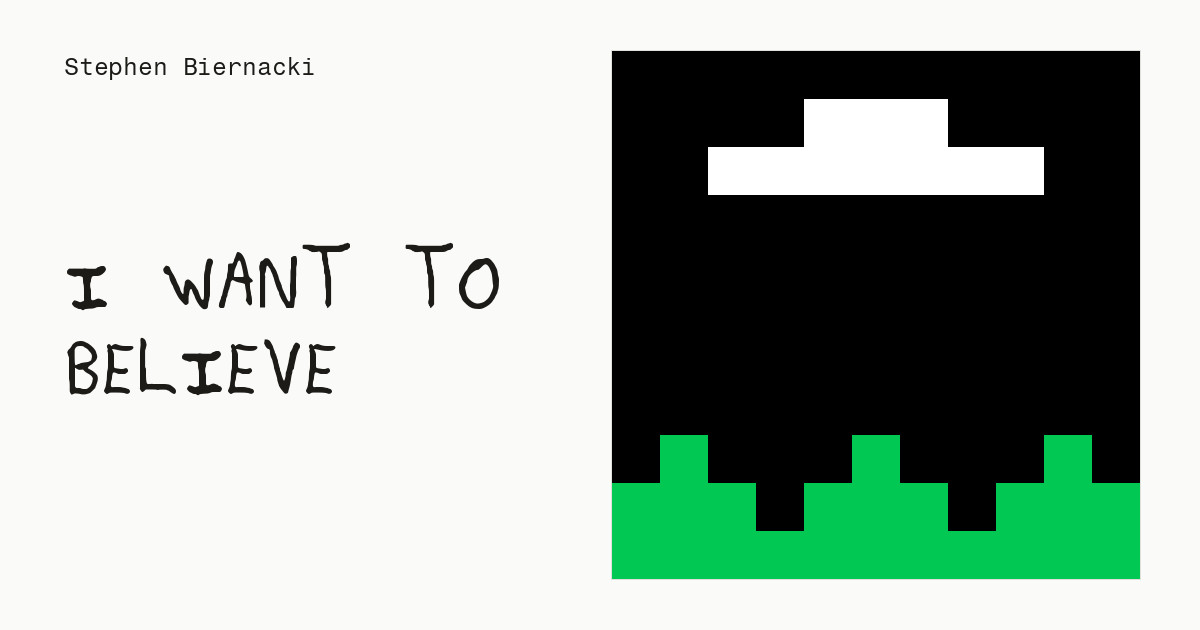
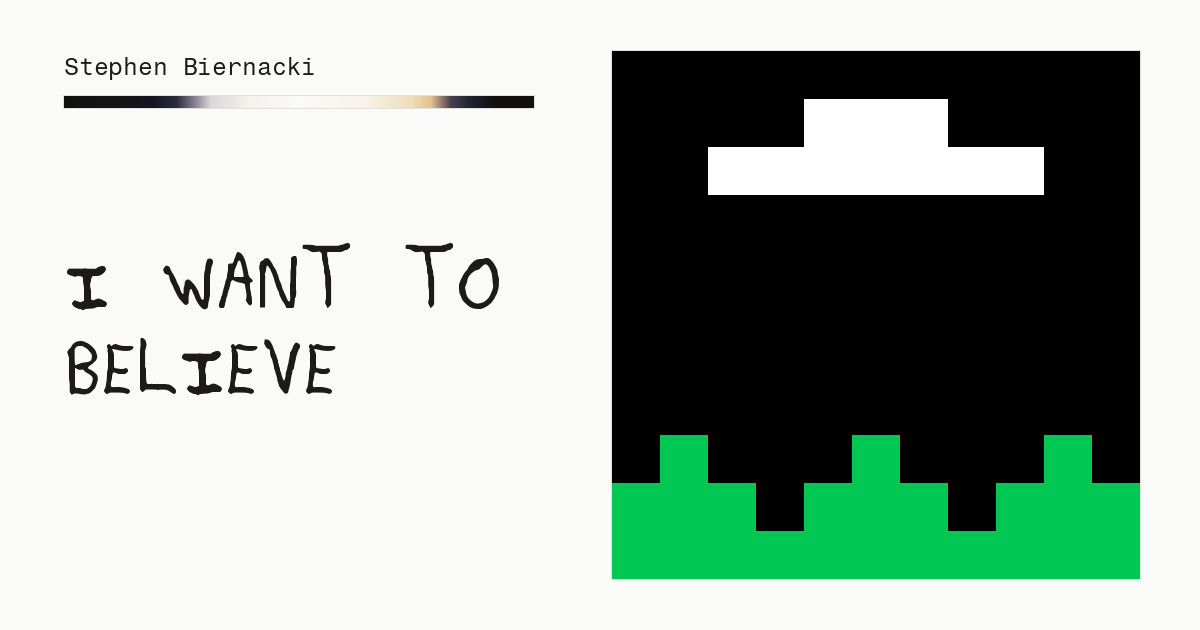
Every work page shares its own card, with the day's bar under the name
All eighteen work cards now carry the footer's bar of the day's light under the name, drawn from
the colors in assets/light.js. Nothing else on the thirteen existing cards changed.

The five live works that used the site's card get cards of their own: Alien Invasion of Privacy,
Vestige, Self-Addressed (0x01) and Untitled (For Jo) show the picture the front page hangs for
them, and UNBECOMING shows the truth is rarely pure and never simple, the work its page opens on.
Each has a description of its picture.

Work pages ask for their cards as <page>.jpg?v=2, so services that kept the old cards fetch these.

Claude-Session: https://claude.ai/code/session_014FDTHNW6CwwbjPTPEX69sd

Changed region(s): [[0.0308, 0.1508, 0.4625, 0.181]]

diff --git a/works/alien-invasion-of-privacy/index.html b/works/alien-invasion-of-privacy/index.html
@@ -11,10 +11,10 @@
 <meta property="og:site_name" content="Stephen Biernacki">
 <meta property="og:title" content="Alien Invasion of Privacy by Stephen Biernacki">
 <meta property="og:description" content="In the movies, the aliens are the ones watching. Here, the alien is the one being watched.">
-<meta property="og:image" content="https://stephenbiernacki.com/assets/og.png?v=2">
+<meta property="og:image" content="https://stephenbiernacki.com/assets/share/alien-invasion-of-privacy.jpg?v=2">
 <meta property="og:image:width" content="1200">
 <meta property="og:image:height" content="630">
-<meta property="og:image:alt" content="Stephen Biernacki, handwritten across the colors this site takes through one day: dark at midnight, white at noon, warm at dusk.">
+<meta property="og:image:alt" content="Alien Invasion of Privacy. A grid of six gray security-camera views of rooms, on black.">
 <meta name="twitter:card" content="summary_large_image">
 <link rel="icon" href="../../favicon.svg" type="image/svg+xml">
 <link rel="icon" href="../../favicon-32.png" sizes="32x32" type="image/png">

diff --git a/works/unbecoming/index.html b/works/unbecoming/index.html
@@ -11,10 +11,10 @@
 <meta property="og:site_name" content="Stephen Biernacki">
 <meta property="og:title" content="UNBECOMING by Stephen Biernacki">
 <meta property="og:description" content="A reflection on the quiet unraveling of self within relationships.">
-<meta property="og:image" content="https://stephenbiernacki.com/assets/og.png?v=2">
+<meta property="og:image" content="https://stephenbiernacki.com/assets/share/unbecoming.jpg?v=2">
 <meta property="og:image:width" content="1200">
 <meta property="og:image:height" content="630">
-<meta property="og:image:alt" content="Stephen Biernacki, handwritten across the colors this site takes through one day: dark at midnight, white at noon, warm at dusk.">
+<meta property="og:image:alt" content="the truth is rarely pure and never simple. A blurred face in profile with two dark, glassy orbs, against a pale oval, in black and white.">
 <meta name="twitter:card" content="summary_large_image">
 <link rel="icon" href="../../favicon.svg" type="image/svg+xml">
 <link rel="icon" href="../../favicon-32.png" sizes="32x32" type="image/png">

diff --git a/works/untitled-for-jo/index.html b/works/untitled-for-jo/index.html
@@ -11,10 +11,10 @@
 <meta property="og:site_name" content="Stephen Biernacki">
 <meta property="og:title" content="Untitled (For Jo) by Stephen Biernacki">
 <meta property="og:description" content="An ever-changing, screen-adaptive digital evolution of Jo Baer’s Single Paintings series.">
-<meta property="og:image" content="https://stephenbiernacki.com/assets/og.png?v=2">
+<meta property="og:image" content="https://stephenbiernacki.com/assets/share/untitled-for-jo.jpg?v=2">
 <meta property="og:image:width" content="1200">
 <meta property="og:image:height" content="630">
-<meta property="og:image:alt" content="Stephen Biernacki, handwritten across the colors this site takes through one day: dark at midnight, white at noon, warm at dusk.">
+<meta property="og:image:alt" content="Untitled (For Jo). A pale gray field inside a thin pink line and a wide, nearly black border.">
 <meta name="twitter:card" content="summary_large_image">
 <link rel="icon" href="../../favicon.svg" type="image/svg+xml">
 <link rel="icon" href="../../favicon-32.png" sizes="32x32" type="image/png">

diff --git a/works/self-addressed/index.html b/works/self-addressed/index.html
@@ -11,10 +11,10 @@
 <meta property="og:site_name" content="Stephen Biernacki">
 <meta property="og:title" content="Self-Addressed by Stephen Biernacki">
 <meta property="og:description" content="For you, with a bit of me.">
-<meta property="og:image" content="https://stephenbiernacki.com/assets/og.png?v=2">
+<meta property="og:image" content="https://stephenbiernacki.com/assets/share/self-addressed.jpg?v=2">
 <meta property="og:image:width" content="1200">
 <meta property="og:image:height" content="630">
-<meta property="og:image:alt" content="Stephen Biernacki, handwritten across the colors this site takes through one day: dark at midnight, white at noon, warm at dusk.">
+<meta property="og:image:alt" content="0x01. A nearly black field split by a pale violet band, between white edges that turn wavy below it.">
 <meta name="twitter:card" content="summary_large_image">
 <link rel="icon" href="../../favicon.svg" type="image/svg+xml">
 <link rel="icon" href="../../favicon-32.png" sizes="32x32" type="image/png">

diff --git a/works/vestige/index.html b/works/vestige/index.html
@@ -11,10 +11,10 @@
 <meta property="og:site_name" content="Stephen Biernacki">
 <meta property="og:title" content="Vestige by Stephen Biernacki">
 <meta property="og:description" content="He’s with me, but it’s different now.">
-<meta property="og:image" content="https://stephenbiernacki.com/assets/og.png?v=2">
+<meta property="og:image" content="https://stephenbiernacki.com/assets/share/vestige.jpg?v=2">
 <meta property="og:image:width" content="1200">
 <meta property="og:image:height" content="630">
-<meta property="og:image:alt" content="Stephen Biernacki, handwritten across the colors this site takes through one day: dark at midnight, white at noon, warm at dusk.">
+<meta property="og:image:alt" content="Vestige. Trees and sky reflected in rippling water, above a flat field of pale blue.">
 <meta name="twitter:card" content="summary_large_image">
 <link rel="icon" href="../../favicon.svg" type="image/svg+xml">
 <link rel="icon" href="../../favicon-32.png" sizes="32x32" type="image/png">

diff --git a/works/weathering-the/index.html b/works/weathering-the/index.html
@@ -11,7 +11,7 @@
 <meta property="og:site_name" content="Stephen Biernacki">
 <meta property="og:title" content="“Weathering the” by Stephen Biernacki">
 <meta property="og:description" content="Struggle is universal and turbulent on the inside. You never know what someone is going through, but you can be sure there’s something.">
-<meta property="og:image" content="https://stephenbiernacki.com/assets/share/weathering-the.jpg">
+<meta property="og:image" content="https://stephenbiernacki.com/assets/share/weathering-the.jpg?v=2">
 <meta property="og:image:width" content="1200">
 <meta property="og:image:height" content="630">
 <meta property="og:image:alt" content="Weathering the. Rough strokes of navy, blue and black sweep across a pale ground, with thin drips running down from them.">

diff --git a/works/syntax-synapse/index.html b/works/syntax-synapse/index.html
@@ -11,7 +11,7 @@
 <meta property="og:site_name" content="Stephen Biernacki">
 <meta property="og:title" content="Syntax/Synapse by Stephen Biernacki">
 <meta property="og:description" content="AI reinterprets phrases whose meanings transcend their literal expression.">
-<meta property="og:image" content="https://stephenbiernacki.com/assets/share/syntax-synapse.jpg">
+<meta property="og:image" content="https://stephenbiernacki.com/assets/share/syntax-synapse.jpg?v=2">
 <meta property="og:image:width" content="1200">
 <meta property="og:image:height" content="630">
 <meta property="og:image:alt" content="The Left Hand Doesn&#x27;t Know What the Right Hand Is Doing. Two painted hands, one green and one pink, over a blue, yellow and black painting with red and blue strips.">

diff --git a/works/i-like-internet/index.html b/works/i-like-internet/index.html
@@ -11,7 +11,7 @@
 <meta property="og:site_name" content="Stephen Biernacki">
 <meta property="og:title" content="I Like Internet by Stephen Biernacki">
 <meta property="og:description" content="Made on a whim, in response to the “i like internet” meme on X.">
-<meta property="og:image" content="https://stephenbiernacki.com/assets/share/i-like-internet.jpg">
+<meta property="og:image" content="https://stephenbiernacki.com/assets/share/i-like-internet.jpg?v=2">
 <meta property="og:image:width" content="1200">
 <meta property="og:image:height" content="630">
 <meta property="og:image:alt" content="I Like Internet. Three people in the dark hold laptops up to their faces; the one in the middle has a box over the head, with a torn face showing through it.">

diff --git a/works/panopticism/index.html b/works/panopticism/index.html
@@ -11,7 +11,7 @@
 <meta property="og:site_name" content="Stephen Biernacki">
 <meta property="og:title" content="PANOPTICISM by Stephen Biernacki">
 <meta property="og:description" content="This was the first creative exploration in what would eventually become my interactive UNBECOMING series.">
-<meta property="og:image" content="https://stephenbiernacki.com/assets/share/panopticism.jpg">
+<meta property="og:image" content="https://stephenbiernacki.com/assets/share/panopticism.jpg?v=2">
 <meta property="og:image:width" content="1200">
 <meta property="og:image:height" content="630">
 <meta property="og:image:alt" content="PANOPTICISM. A black-and-white face covered in open eyes, its right edge breaking into ripples, fading into its negative and back.">

diff --git a/works/insides-out/index.html b/works/insides-out/index.html
@@ -9,7 +9,7 @@
 <meta property="og:type" content="website">
 <meta property="og:site_name" content="Stephen Biernacki">
 <meta property="og:title" content="Insides Out by Stephen Biernacki">
-<meta property="og:image" content="https://stephenbiernacki.com/assets/share/insides-out.jpg">
+<meta property="og:image" content="https://stephenbiernacki.com/assets/share/insides-out.jpg?v=2">
 <meta property="og:image:width" content="1200">
 <meta property="og:image:height" content="630">
 <meta property="og:image:alt" content="Insides Out. Rounded bars of green, orange and yellow under a white glare, with streaks of green, blue and orange rising out of them into black, beside dark bands of green and blue at the left edge.">

diff --git a/works/the-conceptual-armor-is-bullshit/index.html b/works/the-conceptual-armor-is-bullshit/index.html
@@ -11,7 +11,7 @@
 <meta property="og:site_name" content="Stephen Biernacki">
 <meta property="og:title" content="The Conceptual Armor Is Bullshit by Stephen Biernacki">
 <meta property="og:description" content="Sometimes an image is just cool.">
-<meta property="og:image" content="https://stephenbiernacki.com/assets/share/the-conceptual-armor-is-bullshit.jpg">
+<meta property="og:image" content="https://stephenbiernacki.com/assets/share/the-conceptual-armor-is-bullshit.jpg?v=2">
 <meta property="og:image:width" content="1200">
 <meta property="og:image:height" content="630">
 <meta property="og:image:alt" content="Left. A retinal scan of a left eye, printed at the top of an otherwise blank browser page.">

diff --git a/works/red-herr1ng/index.html b/works/red-herr1ng/index.html
@@ -11,7 +11,7 @@
 <meta property="og:site_name" content="Stephen Biernacki">
 <meta property="og:title" content="RED HERR1NG by Stephen Biernacki">
 <meta property="og:description" content="221 unique expressions of affirmation, love, support, empathy, and understanding.">
-<meta property="og:image" content="https://stephenbiernacki.com/assets/share/red-herr1ng.jpg">
+<meta property="og:image" content="https://stephenbiernacki.com/assets/share/red-herr1ng.jpg?v=2">
 <meta property="og:image:width" content="1200">
 <meta property="og:image:height" content="630">
 <meta property="og:image:alt" content="RED HERR1NG. A woman&#x27;s face in solid black over lines of typed capital letters, a few of them red.">
